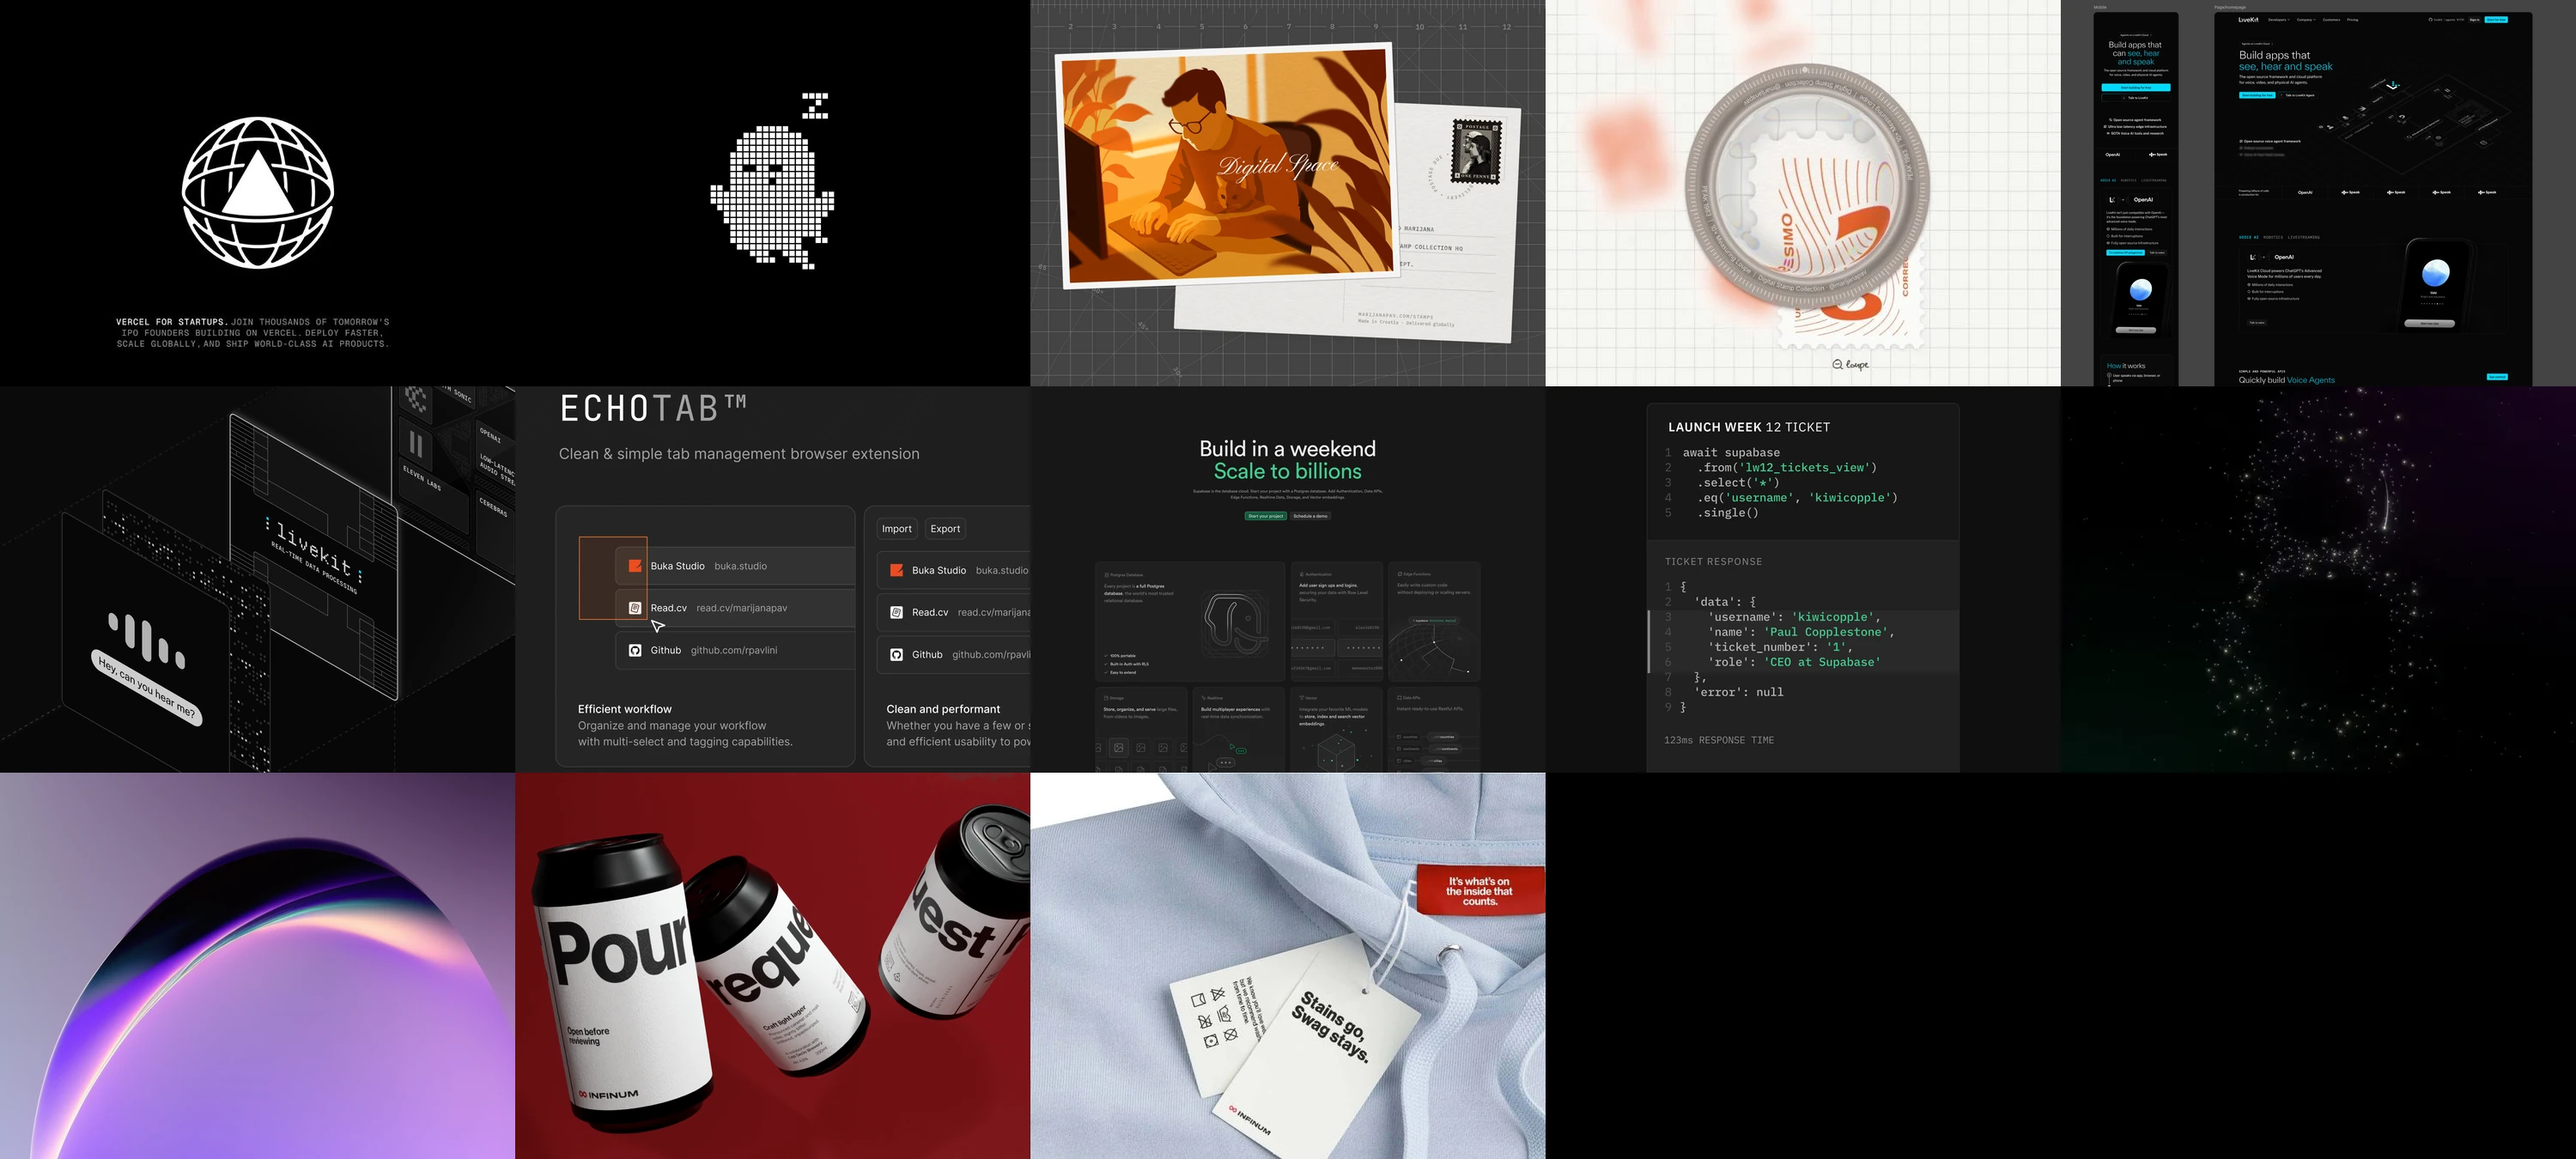
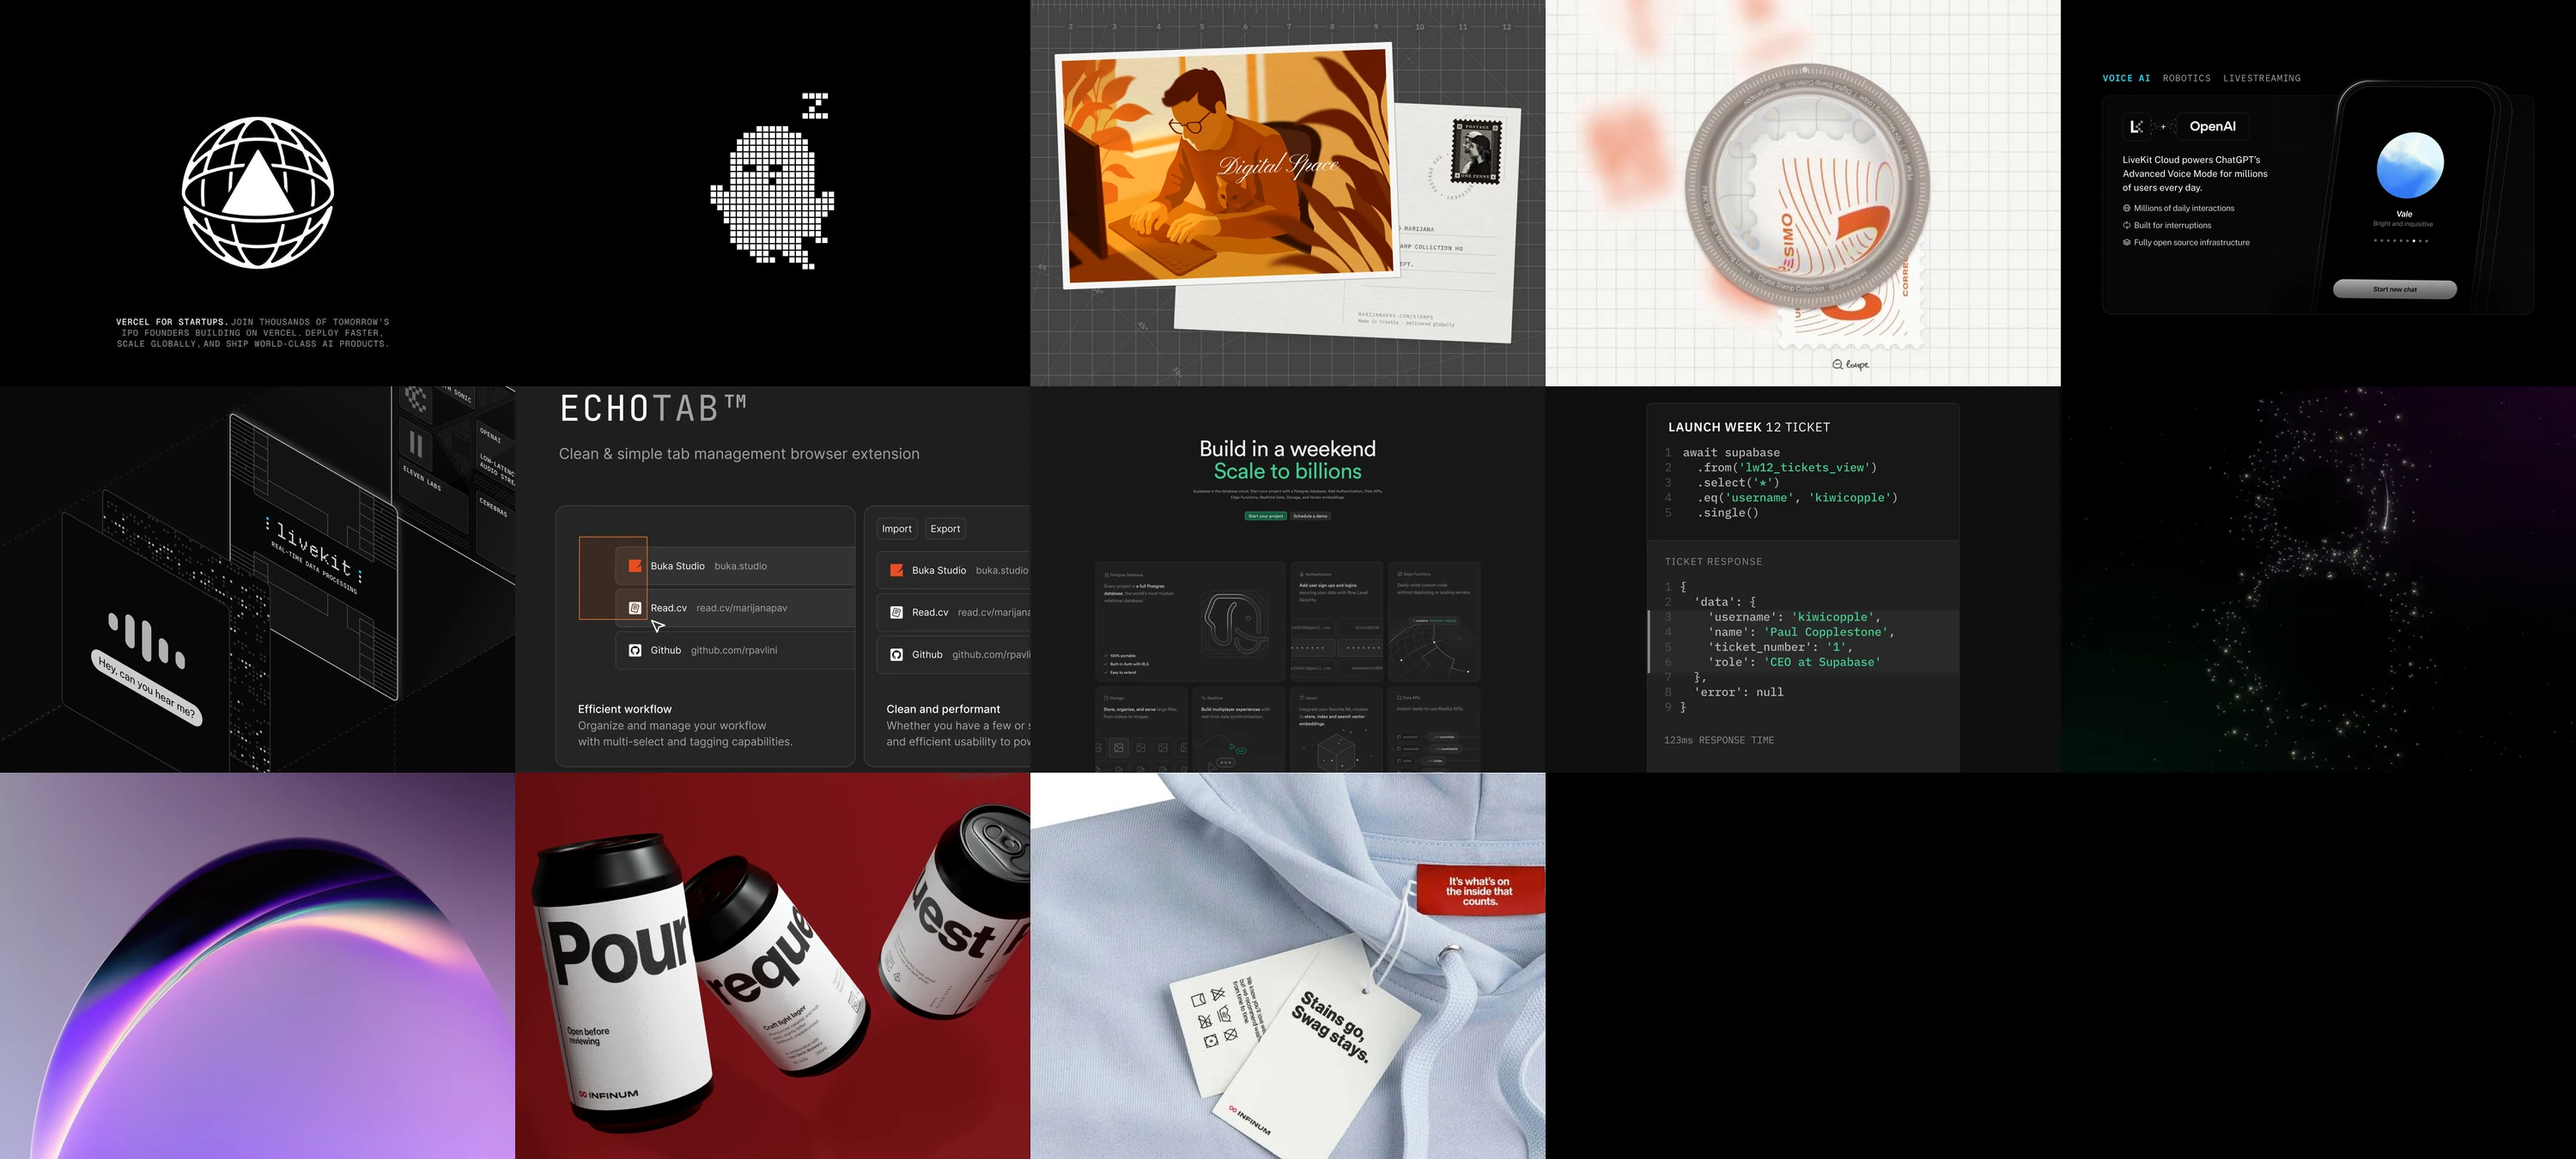
Rename to "LiveKit Branding and Website" and update preview
- Title matches the Supabase project naming.
- New preview image (Voice AI card) for the grid card and hover atlas;
  remove the unused homepage preview.

Changed region(s): [[0.775, 0.0, 1.0, 0.3422]]

diff --git a/src/app/(main)/work/constants.tsx b/src/app/(main)/work/constants.tsx
@@ -40,7 +40,7 @@ import LiveKitWebsite01 from '~/public/work/livekit-website/livekit-features-gri
 import LiveKitHomepageFrames from '~/public/work/livekit-website/livekit-homepage-frames.png';
 import LiveKitMerchCap from '~/public/work/livekit-website/livekit-merch-cap.jpg';
 import LiveKitMerchStickers from '~/public/work/livekit-website/livekit-merch-stickers.jpg';
-import LiveKitWebsiteHomepage from '~/public/work/livekit-website/livekit-homepage.png';
+import LiveKitBrandingPreview from '~/public/work/livekit-website/livekit-preview.png';
 import LiveKitValuesCards from '~/public/work/livekit-website/livekit-values-cards.png';
 import LiveKitFeaturesCards from '~/public/work/livekit-website/livekit-features-cards.png';
 import LiveKitWebsite04 from '~/public/work/livekit-website/livekit-sdk-features.jpg';
@@ -368,9 +368,9 @@ export const projects: Project[] = [
   },
   {
     type: 'project',
-    title: 'LiveKit branding',
+    title: 'LiveKit Branding and Website',
     slug: 'livekit-branding',
-    preview: LiveKitWebsiteHomepage,
+    preview: LiveKitBrandingPreview,
     images: [
       // Website overview first.
       {

diff --git a/src/app/(main)/work/components/ProjectHoverPreview/atlas.ts b/src/app/(main)/work/components/ProjectHoverPreview/atlas.ts
@@ -10,7 +10,7 @@ export const previewAtlas = {
     { slug: 'geist-impact', file: 'work/geist-impact/preview.png' },
     { slug: 'feedback-postcards', file: 'work/postcard/feedback-postcard_00.png' },
     { slug: 'the-weight-of-paper', file: 'work/the-weight-of-paper/weight-of-paper-loupe.png' },
-    { slug: 'livekit-branding', file: 'work/livekit-website/livekit-homepage.png' },
+    { slug: 'livekit-branding', file: 'work/livekit-website/livekit-preview.png' },
     { slug: 'how-livekit-works', file: 'work/livekit/livekit_preview.png' },
     { slug: 'echo-tab-landing', file: 'work/echo-tab-landing-page/preview.png' },
     { slug: 'supabase-branding', file: 'work/supabase-homepage/supabase-homepage-hero.png' },
